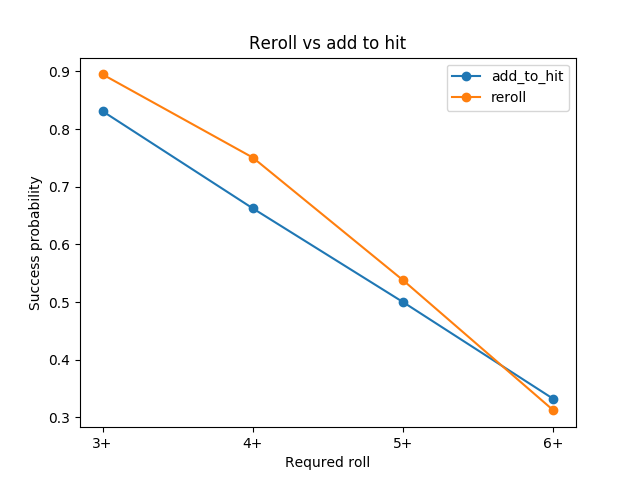
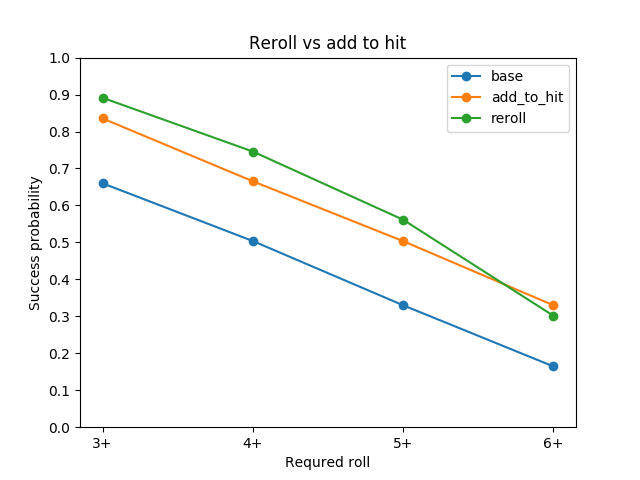
fixed graph

diff --git a/src/rerol_vs_add.py b/src/rerol_vs_add.py
@@ -8,10 +8,14 @@ import matplotlib.pyplot as plt
 if __name__ == '__main__' :
     
     N = 10000
+    results_base = np.zeros(4)
     results_rr = np.zeros(4)
     results_a = np.zeros(4)
     for i in range(3,7):
         for n in range(N):
+            base = ac_core.d6()
+            if base >= i:
+                results_base[i-3] += 1
             rr = ac_core.d6rr(i-1)
             if rr >= i:
                 results_rr[i-3] += 1            
@@ -19,12 +23,15 @@ if __name__ == '__main__' :
             if a >= i-1:
                 results_a[i-3] += 1            
                 
+    results_base /= N
     results_a /= N
     results_rr /= N
     
+    plt.plot([3,4,5,6], results_base, 'o-', label="base")
     plt.plot([3,4,5,6], results_a, 'o-', label="add_to_hit")
     plt.plot([3,4,5,6], results_rr, 'o-', label="reroll")
     plt.xticks([3,4,5,6],["3+","4+","5+","6+"])
+    plt.yticks(np.arange(0,1.1,0.1))
     plt.legend()
     plt.title("Reroll vs add to hit")
     plt.xlabel("Requred roll")
